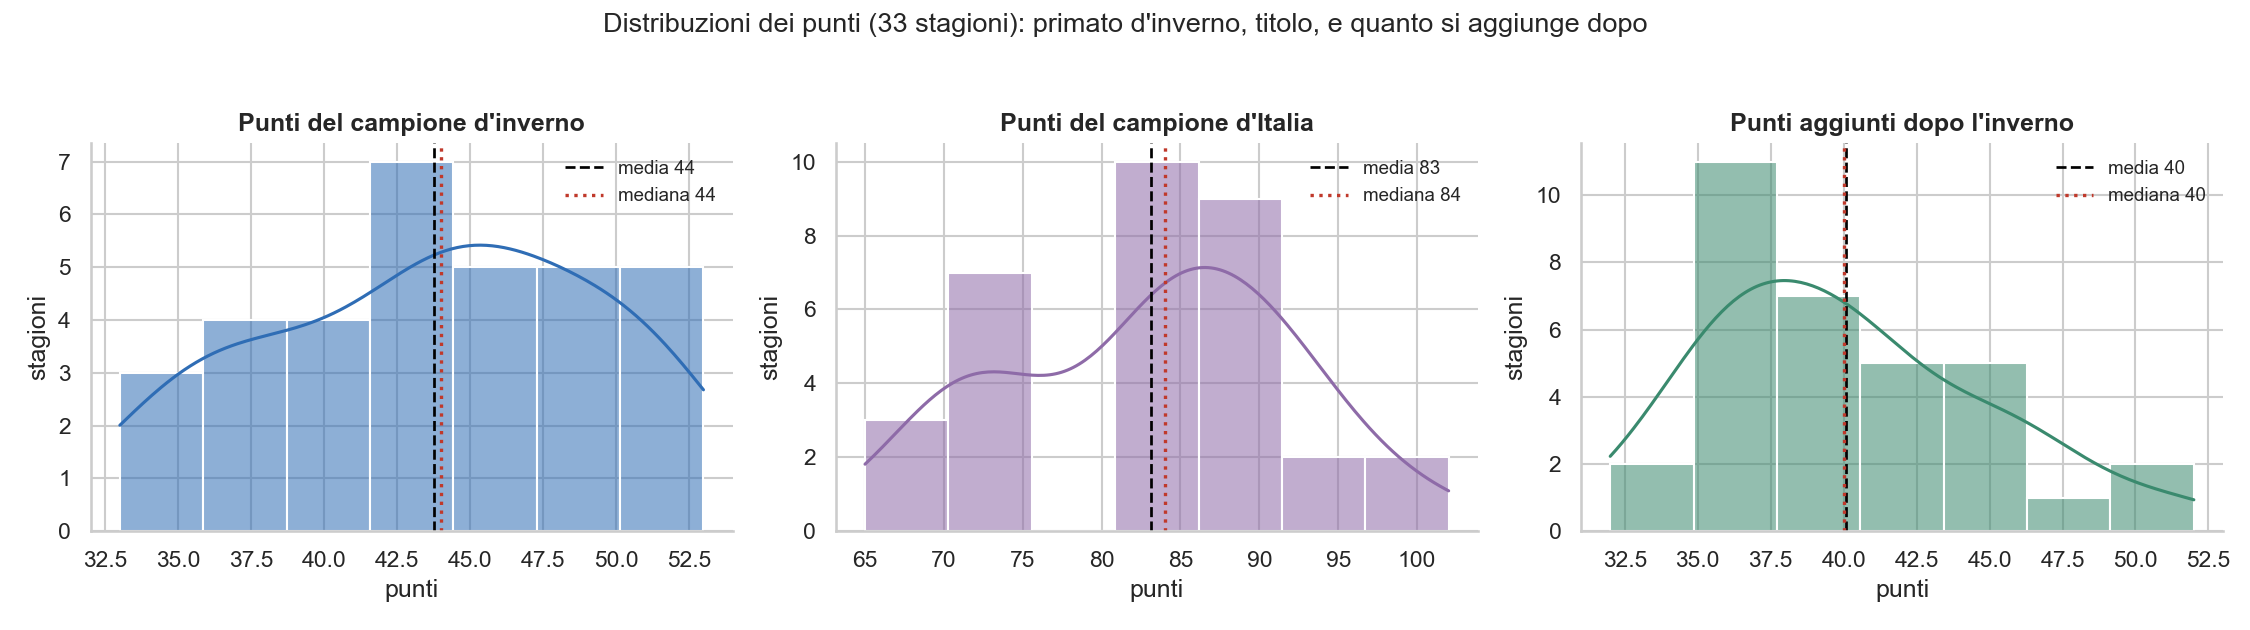
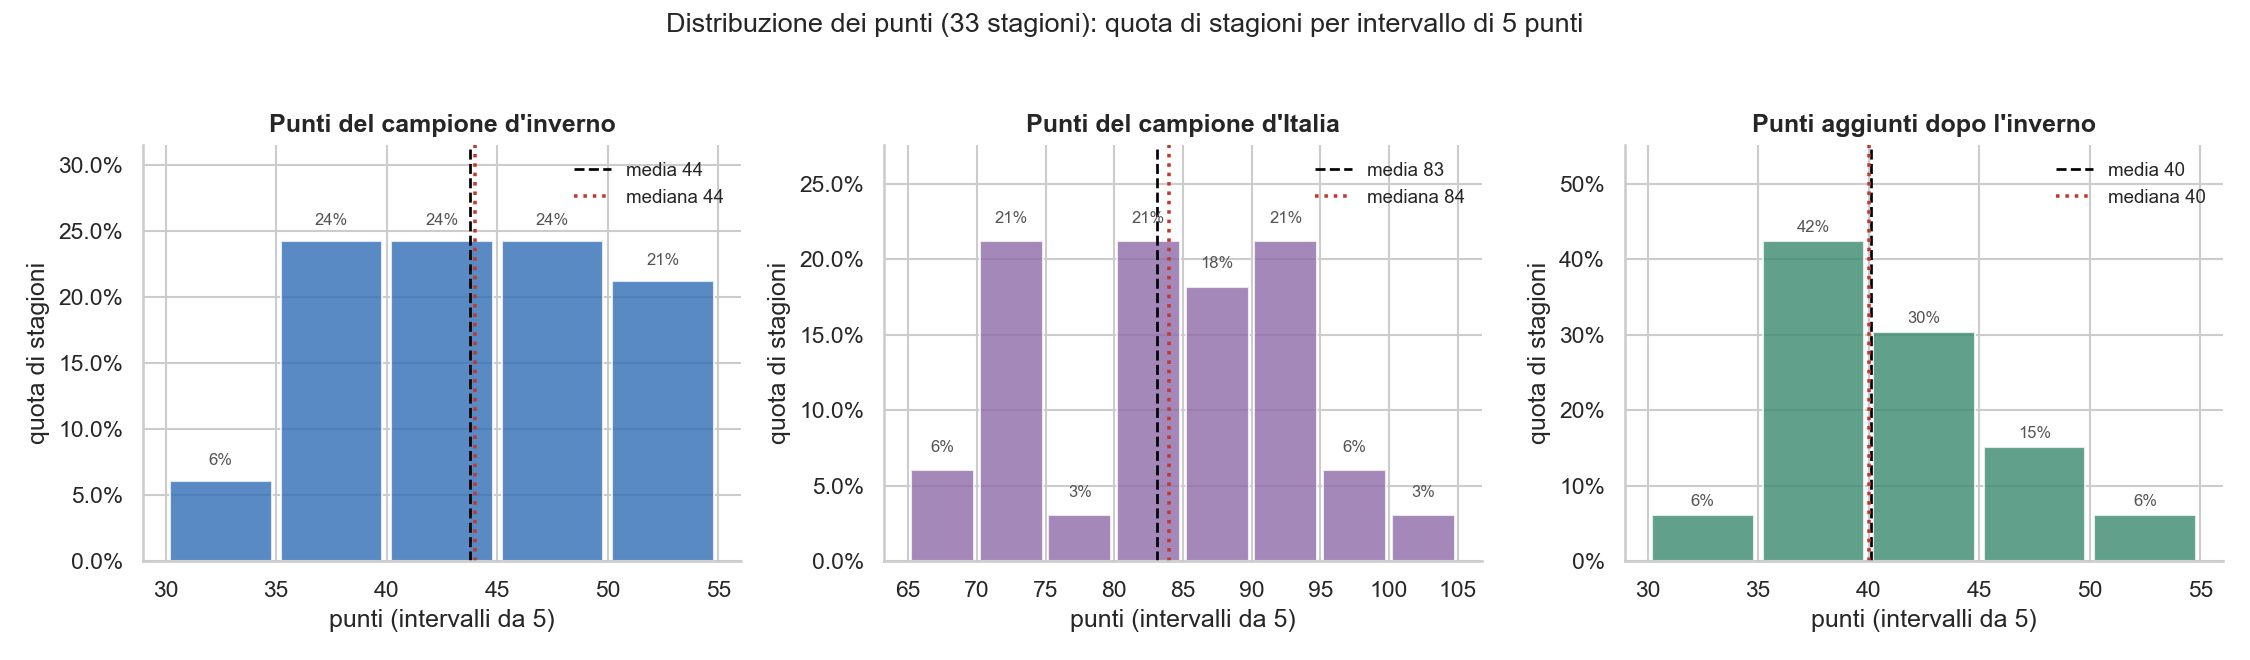
Riscrivi gli articoli: registro asciutto, note, box, istogramma statistico
- prosa piana e frasi semplici, titoli diretti
- citazioni in nota a fine pagina, niente URL o percorsi nel corpo
- box sui calcoli; immagini in stile reference
- istogramma per probabilita su intervalli di 5 punti
- PDF riesportati puliti (niente header/footer)

diff --git a/docs/genera_grafici.py b/docs/genera_grafici.py
@@ -17,6 +17,7 @@ import matplotlib
 
 matplotlib.use("Agg")
 import matplotlib.pyplot as plt
+from matplotlib.ticker import PercentFormatter
 import seaborn as sns
 from statsmodels.stats.proportion import proportion_confint
 
@@ -125,16 +126,28 @@ def g_distribuzioni(d):
     serie = [("Punti del campione d'inverno", d["pti_inverno"], BLU),
              ("Punti del campione d'Italia", d["pti_campione"], VIO),
              ("Punti aggiunti dopo l'inverno", d["delta"], VER)]
-    fig, axes = plt.subplots(1, 3, figsize=(15, 4.2))
+    fig, axes = plt.subplots(1, 3, figsize=(15, 4.4))
     for ax, (titolo, dati, col) in zip(axes, serie):
-        sns.histplot(dati, kde=True, color=col, ax=ax, alpha=0.55)
+        lo = int(np.floor(dati.min() / 5) * 5)
+        hi = int(np.ceil(dati.max() / 5) * 5)
+        bins = list(range(lo, hi + 5, 5))
+        counts, edges = np.histogram(dati, bins=bins)
+        probs = counts / counts.sum()
+        centri = [(a + b) / 2 for a, b in zip(edges[:-1], edges[1:])]
+        ax.bar(centri, probs, width=4.6, color=col, alpha=0.8, edgecolor="white")
+        for p, c in zip(probs, centri):
+            if p > 0:
+                ax.text(c, p + 0.012, f"{p * 100:.0f}%", ha="center", fontsize=8, color="#555")
         ax.axvline(dati.mean(), color="black", ls="--", lw=1.3, label=f"media {dati.mean():.0f}")
-        ax.axvline(dati.median(), color=ROSSO, ls=":", lw=1.6, label=f"mediana {dati.median():.0f}")
+        ax.axvline(dati.median(), color=ROSSO, ls=":", lw=1.7, label=f"mediana {dati.median():.0f}")
         ax.set_title(titolo, fontsize=12, weight="bold")
-        ax.set_xlabel("punti")
-        ax.set_ylabel("stagioni")
+        ax.set_xlabel("punti (intervalli da 5)")
+        ax.set_ylabel("quota di stagioni")
+        ax.set_xticks(bins)
+        ax.yaxis.set_major_formatter(PercentFormatter(1.0))
+        ax.set_ylim(0, probs.max() * 1.3)
         ax.legend(frameon=False, fontsize=9)
-    fig.suptitle("Distribuzioni dei punti (33 stagioni): primato d'inverno, titolo, e quanto si aggiunge dopo",
+    fig.suptitle("Distribuzione dei punti (33 stagioni): quota di stagioni per intervallo di 5 punti",
                  fontsize=13)
     sns.despine(fig)
     fig.tight_layout(rect=(0, 0, 1, 0.95))

diff --git a/article/parte2-il-modello.md b/article/parte2-il-modello.md
@@ -1,97 +1,94 @@
-# Si può leggere gennaio?
+# Cosa conta a metà stagione
 ### Parte 2 — Il modello
 
-*Il campione d'inverno vince il 73% delle volte. Ma cosa distingue chi poi alza la coppa da chi si fa rimontare? Lo abbiamo chiesto a una regressione — con prudenza.*
+*Il campione d'inverno vince il 73% delle volte. Ma cosa distingue chi poi alza la coppa da chi si fa rimontare? L'abbiamo chiesto a una regressione, con prudenza.*
 
-Nella prima parte avevamo lasciato una domanda aperta. Se non tutti i primati di metà stagione valgono uguale — la Juventus che converte quasi sempre, le rimonte che ogni tanto rovesciano il tavolo — allora dev'esserci qualcosa, già a gennaio, che separa il campione d'inverno destinato al titolo da quello che sfumerà. La forza? Il margine? Proviamo a misurarlo.
+Nella prima parte era rimasta una domanda. Non tutti i primati di metà stagione valgono uguale: la Juventus converte quasi sempre, ogni tanto qualcuno viene rimontato. Allora qualcosa, già a gennaio, deve separare il campione d'inverno che vince da quello che no. La forza? Il margine? Proviamo a misurarlo.
 
-## Perché qui non si "prevede"
+## Non è una previsione
 
-Prima un avvertimento, che è anche metodo. Le stagioni sono trentatré: pochissime. Con così pochi casi, allenare un modello a *prevedere* e vantarsi dell'accuratezza è un esercizio fragile — il risultato balla a ogni scelta. La domanda giusta, a questi numeri, non è "quanto prevedo bene", ma "c'è un'associazione, quanto è forte, quanto è incerta?". Si legge il modello, non lo si fa giocare d'azzardo. È una differenza di postura, e cambia tutto.
+Prima un avvertimento, che è anche metodo. Le stagioni sono trentatré: pochissime. Con così pochi casi, allenare un modello a prevedere e vantarsi della sua precisione è fragile, perché il risultato cambia a ogni scelta. La domanda giusta non è "quanto prevedo bene", ma "c'è un legame, quanto è forte, quanto è incerto". Si legge il modello, non lo si fa scommettere.
 
-## L'unica cosa che conta
+## Conta solo il distacco
 
-Messa così, la regressione logistica dà una risposta pulita: l'unica variabile che sposta davvero l'ago è il **distacco sul secondo** a metà stagione. Ogni punto di margine in più aumenta di circa la metà le probabilità di chiudere davanti. Non è un effetto enorme — con n=33 nulla lo è in modo netto — ma è il solo segnale che resta in piedi.
+La regressione dà una risposta pulita: l'unica cosa che sposta davvero le probabilità è il distacco sul secondo a metà stagione. Ogni punto di margine in più aumenta di circa la metà le probabilità di chiudere primo. Non è un effetto enorme, con 33 stagioni niente lo è, ma è il solo segnale che regge.
 
-E si vede a occhio nudo: chi all'andata ha un margine risicato, due punti o meno, vince poi il 62% delle volte; chi ne ha tre-cinque sale al 69%; e chi chiude con almeno sei punti di vantaggio, in trentatré anni, ha sempre vinto — sette su sette. Un primo assaggio di quella «soglia» su cui torneremo.
+> **Come si legge — l'odds ratio.** "Aumenta di circa la metà" vuol dire odds ratio 1,5: ogni punto di margine moltiplica per 1,5 le quote di vincere. Le quote, non la probabilità diretta.
 
-![Conversione per ampiezza del distacco a fine andata](../docs/modello.png)
+E si vede a occhio. Chi all'andata ha un margine corto, due punti o meno, vince poi il 62% delle volte. Chi ne ha da tre a cinque, il 69%. Chi chiude con almeno sei punti, in trentatré anni ha sempre vinto: sette su sette. Un primo assaggio di quella "soglia" di cui parleremo.
 
-## Quello che NON conta (e va detto)
+![Conversione per ampiezza del distacco a fine andata][g-modello]
 
-La parte più istruttiva, però, è ciò che *non* funziona. Abbiamo provato la forza assoluta, i punti per partita: niente, i campioni d'inverno sono tutti forti e la forza varia troppo poco per distinguerli. Abbiamo separato l'attacco dalla difesa, gol fatti e gol subiti: segnale praticamente nullo, la "difesa che vince i campionati" qui non si vede. Abbiamo misurato quanto fosse affollata la corsa alle spalle del primo: ma quella, a conti fatti, è solo il distacco visto da un altro lato.
+## Quello che non conta
+
+La parte più istruttiva è ciò che non funziona. Abbiamo provato la forza assoluta, i punti per partita: niente, i campioni d'inverno sono tutti forti e si somigliano troppo. Abbiamo separato attacco e difesa, gol fatti e gol subiti: segnale quasi nullo. Abbiamo misurato quanto fosse affollata la corsa dietro al primo: ma quello è solo il distacco, visto da un altro lato.
 
 | Cosa abbiamo provato | Aggiunge segnale? |
 |---|---|
-| Distacco sul secondo | Sì — l'unico (p ≈ 0,07) |
+| Distacco sul secondo | Sì, l'unico |
 | Differenza reti | Quasi nulla |
-| Punti/partita (forza assoluta) | No |
-| Attacco e difesa separati | No (≈ zero) |
-| Contendibilità (rivali vicini) | È il distacco, visto da un altro lato |
+| Punti per partita | No |
+| Attacco e difesa separati | No |
+| Rivali vicini | È il distacco, da un altro lato |
 
-Il messaggio converge: conta *di quanto* sei primo, non *quanto* sei forte né *come* giochi. È un risultato negativo, di quelli che raramente finiscono in un titolo di giornale, e proprio per questo vale la pena scriverlo.
+Il messaggio è chiaro: conta di quanto sei primo, non quanto sei forte né come giochi.
 
-![Cosa distingue chi converte: solo il distacco sul secondo si stacca da zero](../docs/regressori.png)
+![Cosa distingue chi converte: solo il distacco sul secondo si stacca da zero][g-regressori]
 
-Messa in un grafico, la cosa è netta. Di tutte le caratteristiche del campione d'inverno — forza, attacco, difesa, differenza reti — solo il distacco sul secondo distingue davvero chi poi vince da chi si fa rimontare: la sua barra è l'unica che non tocca lo zero. Tutto il resto è indistinguibile dal caso (e con appena nove rimontati, le bande d'incertezza sono larghe).
+> **Come si legge — la differenza standardizzata.** Misura quanto chi converte e chi si fa rimontare differiscono su una caratteristica, in deviazioni standard. Zero vuol dire nessuna differenza; più la barra è lontana da zero, più quella caratteristica separa i due gruppi.
 
-Una precisazione, però, prima di seppellire la difesa. Un conto è chiedersi *chi converte* tra i primi d'inverno, un altro *chi diventa campione*. E lì la difesa pesa eccome: in trentatré stagioni il campione d'Italia ha avuto la miglior difesa del torneo nel 73% dei casi, il miglior attacco solo nel 39%. La vecchia idea che «la difesa vince i campionati» nei numeri c'è. Solo che la difesa serve a *costruire* il vantaggio; a spiegare se un vantaggio già costruito regge, no — quello dipende da quanto è grande.
+Nel grafico si vede subito: di tutte le caratteristiche del campione d'inverno, solo il distacco si stacca da zero. Attacco, difesa, forza, differenza reti restano indistinguibili dal caso. E con appena nove squadre rimontate, le bande di incertezza sono larghe.
 
-## L'Inter 2025/26, e una previsione onesta
+Una cosa, però, prima di seppellire la difesa. Un conto è chiedersi chi converte tra i primi d'inverno, un altro chi diventa campione. E lì la difesa pesa: in trentatré stagioni il campione d'Italia ha avuto la miglior difesa nel 73% dei casi, il miglior attacco solo nel 39%[^calc]. "La difesa vince i campionati" nei numeri c'è. Ma la difesa serve a costruire il vantaggio; a dire se un vantaggio già costruito regge, no. Quello dipende da quanto è grande.
 
-Una prova, per gioco e per onestà. Quest'anno il campione d'inverno è stato l'Inter, con tre punti di margine. Abbiamo addestrato il modello su tutte le altre stagioni — tenendo fuori proprio questa — e gli abbiamo chiesto: che probabilità dai all'Inter? Ha risposto circa il 70%. L'Inter ha poi vinto.
+## La prova: l'Inter 2025/26
 
-Modello promosso? Calma. Quel 70% è quasi identico al tasso storico: con un margine modesto, il modello non fa che dire "di solito sì". Non ci ha azzeccato per bravura, ma perché la base di partenza è già alta — e un 70% lascia comunque tre possibilità su dieci che andasse storto. Una stagione sola non promuove né boccia nessuno.
+Una prova, per gioco e per onestà. Quest'anno il campione d'inverno è stato l'Inter, con tre punti di margine. Abbiamo addestrato il modello su tutte le altre stagioni, tenendo fuori questa, e gli abbiamo chiesto: che probabilità dai all'Inter? Ha risposto circa il 70%. L'Inter ha poi vinto.
 
-## Da una domanda nascono domande
+> **Come si legge — la prova "out-of-sample".** Il modello impara senza la stagione da giudicare, poi prova a indovinarla. Così non bara: non ha già visto la risposta.
 
-Eravamo partiti da una provocazione tra colleghi, e siamo finiti — giustamente — con più domande di quante ne avessimo all'inizio. Quelle che restano aperte:
+Modello promosso? Calma. Quel 70% è quasi uguale al tasso storico: con un margine piccolo, il modello dice solo "di solito sì". Non ci ha azzeccato per bravura, ma perché la base di partenza è alta. E un 70% lascia comunque tre possibilità su dieci che vada storto. Una stagione sola non promuove e non boccia nessuno.
 
-- vale solo per la Serie A, o è una legge del calcio? Per scoprirlo servirebbe guardare gli altri campionati, ma senza mescolarli: ognuno è un caso a sé, andrebbero distinti (con variabili di lega o interazioni).
-- esiste una **soglia** oltre la quale il titolo è praticamente certo — un margine, o un monte-punti, dopo il quale non si torna indietro?
-- il vantaggio dell'inverno è cambiato nel tempo, tra ere di una sola dominatrice ed ere più aperte?
-- e se invece di "vince / non vince" guardassimo *di quanto* si vince a fine stagione?
-- la difesa fa il campione (73% dei casi) più dell'attacco (39%): è sempre stato così, in tutte le ere? E con dati più ricchi — tiri, possesso, *expected goals* — quali altri tratti di gioco distinguono un campione?
-- una domanda diversa, lo stesso spirito: le neopromosse dalla Serie B partono forte e si spengono? Una curva di rendimento per blocchi di giornate direbbe se il «fuoco di paglia» esiste davvero, o è solo un'impressione.
+## Le domande aperte
 
-E poi i passi più tecnici, che il piccolo numero di stagioni richiede: stimare la probabilità con un approccio **bayesiano** (una Beta-Binomiale dà la risposta con il suo intervallo di credibilità), intervalli via **bootstrap**, una logistica penalizzata (**Firth**) pensata per i campioni piccoli, un modello **gerarchico** che tratti ogni squadra per quello che è. E, soprattutto, **più dati**: le stagioni storiche pre-1993, che non esistono in un file pronto e andrebbero ricostruite.
+Eravamo partiti da una provocazione tra colleghi, e finiamo con più domande di prima. Quelle che restano:
 
-C'è anche un modo più onesto di leggere il legame. Il campione d'inverno non vince *perché* è campione d'inverno: lo diventa *perché* ha già mostrato, in mezza stagione, le qualità che servono a vincere — continuità, solidità, una rosa profonda. Il primato di gennaio non è una causa, è una **spia**: non una profezia, ma un buon proxy della forza espressa fin lì. Per questo gli allenatori lo sdrammatizzano — «non conta niente, quello che conta è arrivare a maggio in testa», ha tagliato corto Chivu da campione d'inverno in carica — mentre i numeri, loro, un po' contano. Le due cose non si contraddicono: il titolo non garantisce niente, ma chi se lo prende, di solito, è la squadra giusta.
+- vale solo per la Serie A, o per tutto il calcio? Servirebbe guardare gli altri campionati, senza mescolarli: ognuno è un caso a sé.
+- esiste una soglia oltre cui il titolo è quasi certo? Un margine, o un monte-punti, dopo cui non si torna indietro.
+- la difesa fa il campione più dell'attacco (73% contro 39%): è sempre stato così, in tutte le epoche? E con dati più ricchi, come tiri, possesso ed expected goals, cos'altro conta?
+- le neopromosse dalla Serie B partono forte e si spengono? Una curva di rendimento per blocchi di giornate lo direbbe.
+- il pronostico salta per coppe, mercato di gennaio, infortuni: Immobile, da dentro, insiste sul peso del doppio impegno[^imm]. Si possono provare come variabili?
+- e se invece di "vince o non vince" guardassimo di quanto si vince?
 
-Resta il punto di partenza, che il modello non scalfisce ma anzi conferma: il campione d'inverno parte nettamente favorito, e ciò che a gennaio fa la differenza è quanto chiaramente è in testa. Trentatré stagioni sono poche per chiamarla legge. È una tendenza forte — e quel 27% di primi traditi dalla primavera è la parte più bella, la prova che il calcio un margine alla rimonta lo lascia sempre.
+Ci sono poi i passi tecnici, che il piccolo numero di stagioni richiede: una stima bayesiana con il suo intervallo, intervalli da bootstrap, una logistica adatta ai campioni piccoli (Firth), un modello che tratti ogni squadra per sé. E soprattutto più dati: le stagioni prima del 1993, che non esistono già pronte e andrebbero ricostruite.
+
+C'è anche un modo più onesto di leggere il legame. Il campione d'inverno non vince perché è campione d'inverno. Lo diventa perché ha già mostrato, in mezza stagione, le qualità che servono per vincere: continuità, solidità, una rosa profonda. Il primato di gennaio non è una causa, è una spia. Per questo gli allenatori lo ridimensionano ("non conta niente, conta arrivare a maggio in testa", ha tagliato corto Chivu da campione d'inverno in carica[^chivu]), mentre i numeri un po' contano. Le due cose non si escludono: il titolo non garantisce niente, ma chi se lo prende, di solito, è la squadra giusta.
+
+Resta il punto di partenza, che il modello conferma. Il campione d'inverno parte nettamente favorito, e a gennaio fa la differenza quanto è chiaramente in testa. Trentatré stagioni sono poche per chiamarla legge: è una tendenza forte. E quel 27% di primi traditi dalla primavera è la parte più bella, la prova che una rimonta è sempre possibile.
 
 ---
 
 ## Nota metodologica
 
-- **Campione d'inverno**: primo quando ogni squadra ha completato l'andata (`min partite ≥ n−1`). Identità verificata contro le fonti per le ultime 10 stagioni (10 su 10); resta una piccola imprecisione sui punti assoluti del primo (rinvii), non sul distacco.
-- **Test**: proporzione storica con intervallo di Wilson; contingenza su tutte le coppie squadra-stagione con test esatto di Fisher (preferito al chi-quadro per le frequenze attese basse).
-- **Modello**: regressione logistica (statsmodels) letta sui parametri; regressori del campione d'inverno a fine andata. Valutazione Leave-One-Out e prova out-of-sample sull'Inter 2025/26. A n=33 si leggono direzioni e ordini di grandezza, non certezze.
+- **Campione d'inverno**: primo quando ogni squadra ha completato l'andata (partite giocate ≥ n−1). Verificato contro le fonti nelle ultime 10 stagioni. Resta una piccola imprecisione sui punti assoluti del primo, per i rinvii, non sul distacco.
+- **Test**: proporzione storica con intervallo di Wilson; tavola di contingenza su tutte le coppie squadra-stagione con test esatto di Fisher, più adatto del chi-quadro quando le frequenze attese sono basse.
+- **Modello**: regressione logistica letta sui parametri, non sull'accuratezza. Regressori del campione d'inverno a fine andata. Valutazione Leave-One-Out e prova out-of-sample sull'Inter 2025/26. Con 33 stagioni si leggono direzioni e ordini di grandezza, non certezze.
 
-  Dettaglio dei regressori provati:
+Regressori provati:
 
-  | Regressore | pseudo-R² | p-value |
-  |---|---|---|
-  | distacco sul secondo | 0,14 | 0,07 |
-  | + differenza reti | — | 0,71 |
-  | punti/partita (forza assoluta) | 0,02 | 0,40 |
-  | gol fatti + subiti per partita | 0,00 | ≈ 0,9 |
-  | contendibilità (rivali entro 5 punti) | 0,10 | 0,07 (collineare col distacco) |
+| Regressore | pseudo-R² | p-value |
+|---|---|---|
+| distacco sul secondo | 0,14 | 0,07 |
+| + differenza reti | — | 0,71 |
+| punti per partita | 0,02 | 0,40 |
+| gol fatti + subiti per partita | 0,00 | ≈ 0,9 |
+| rivali entro 5 punti | 0,10 | 0,07 (legato al distacco) |
 
-- Codice, tabelle e test nel [notebook del progetto](../analisi/probScudettoSeCampioneInverno.ipynb); i grafici sono in [`docs/`](../docs/).
+I numeri vengono dal notebook del progetto, dove ci sono codice, tabelle e test.
 
----
+[^calc]: Numeri nostri su 33 stagioni (1993/94–2025/26), dati football-data.co.uk; calcolati nel notebook del progetto.
+[^chivu]: [Sportal](https://www.sportal.it/calcio/serie-a/inter-lecce-cristian-chivu-il-titolo-d-inverno-non-conta-eusebio-di-francesco-si-tiene-la-prestazione.html) — Chivu: «il titolo d'inverno non conta».
+[^imm]: [FCInter1908](https://www.fcinter1908.it/news/interviste/immobile-intervista-scudetto-inter-inzaghi/) — Immobile sul peso del doppio impegno e delle tante partite.
 
-## Linkografia
-
-**I nostri numeri** — percentuali, regressioni, intervalli e test sono nel [notebook del progetto](../analisi/probScudettoSeCampioneInverno.ipynb); i grafici in [`docs/`](../docs/). La rassegna completa delle fonti è in [`resources/`](../resources/).
-
-**Le fonti citate** (pubbliche, divulgative e giornalistiche, non peer-reviewed — numeri indicativi):
-
-- [Lega Serie A](https://www.legaseriea.it/serie-a/news/inter-col-lecce-per-diventare-campione-d-inverno) — il campione d'inverno nella storia (63 su 93, 67,7%).
-- [Sky Sport](https://sport.sky.it/calcio/serie-a/serie-a-campioni-inverno-scudetto-precedenti) — campioni d'inverno e scudetto, i precedenti.
-- [Calcio e Finanza](https://www.calcioefinanza.it/2026/01/05/serie-a-campione-dinverno-2026-chi-e/) — cos'è il campione d'inverno (un titolo «puramente giornalistico»).
-- [PokerStars News](https://www.pokerstarsnews.it/calcio/campione-inverno-cosa-significa-statistiche/37019/) — cosa significa e le statistiche (a metà stagione «i valori sono già delineati»).
-- [SportMediaset](https://www.sportmediaset.mediaset.it/calcio/inter/inter-campione-inverno-statistica-scudetto_107743377-202602k.shtml) — la statistica scudetto nell'era recente (~79%).
-- [Sportal](https://www.sportal.it/calcio/serie-a/inter-lecce-cristian-chivu-il-titolo-d-inverno-non-conta-eusebio-di-francesco-si-tiene-la-prestazione.html) — Chivu: «il titolo d'inverno non conta».
-- [FCInter1908](https://www.fcinter1908.it/news/interviste/immobile-intervista-scudetto-inter-inzaghi/) — Immobile sul peso del doppio impegno e delle tante partite.
+[g-modello]: ../docs/modello.png
+[g-regressori]: ../docs/regressori.png

diff --git a/article/parte1-la-domanda.md b/article/parte1-la-domanda.md
@@ -1,59 +1,63 @@
-# Quello che l'inverno sa dello scudetto
+# Campione d'inverno, poi campione d'Italia?
 ### Parte 1 — La domanda
 
-*Da trent'anni il campione d'inverno della Serie A diventa campione d'Italia quasi tre volte su quattro. È un presagio, o solo il riflesso di un vantaggio difficile da buttare via?*
+*In 33 stagioni di Serie A il campione d'inverno ha poi vinto lo scudetto quasi tre volte su quattro. Quanto conta davvero quel primato di metà stagione?*
 
-C'è un titolo, in Serie A, che non esiste. Non si alza al cielo, non finisce in bacheca, non vale un punto. Eppure ogni gennaio viene assegnato con una certa solennità: *campione d'inverno*, la squadra prima in classifica alla fine del girone di andata. È una di quelle etichette che il calcio si porta dietro per abitudine e scaramanzia, sospesa tra la statistica e il presagio. La domanda vera, sotto, è sempre la stessa: conta qualcosa, o è solo un modo per riempire le pagine di metà stagione?
+In Serie A c'è un titolo che non esiste: il campione d'inverno, la squadra prima in classifica a fine girone di andata. Non si alza al cielo e non vale un punto, ma ogni gennaio i giornali lo assegnano lo stesso. La domanda, sotto, è semplice: conta qualcosa?
 
-La cosa è nata, come spesso capita, da una provocazione tra colleghi. Uno con un po' di strada da data scientist alle spalle la lancia a uno più giovane, che quella strada la sta appena imboccando: «Hai voglia? Qual è la probabilità che una squadra di Serie A vinca lo scudetto, dato che è campione d'inverno?». Sembra una domanda da bar. È invece l'inizio perfetto, perché — come succede coi dati — da una domanda ne nascono altre.
+È nata da una provocazione tra colleghi. Uno con un po' di strada da data scientist alle spalle la gira a uno più giovane: «Qual è la probabilità che una squadra vinca lo scudetto, sapendo che è campione d'inverno?». Sembra una domanda da bar, ed è invece un buon punto di partenza: da lì ne nascono altre.
 
-L'ipotesi da verificare è quella popolare: *campione d'inverno uguale campione d'Italia*. Vediamo se i numeri le danno ragione.
+L'ipotesi da verificare è quella popolare: campione d'inverno uguale campione d'Italia. Vediamo se i numeri le danno ragione.
 
-## La risposta, prima di tutto
+> **Come lo definiamo — il campione d'inverno.** È il primo in classifica quando tutte le squadre hanno completato il girone di andata (in pratica: partite giocate ≥ n−1). Coincide con le fonti ufficiali nelle ultime 10 stagioni.
 
-Per rispondere basta guardare indietro. Dal 1993/94 a oggi, trentatré stagioni, il campione d'inverno ha poi alzato lo scudetto **ventiquattro volte su trentatré**: il **73%** (intervallo di Wilson al 95%: 56–85% — con appena trentatré stagioni anche questo numero ha il suo margine d'errore). Quasi tre volte su quattro. Già così sembra molto, ma un numero da solo non dice quanto pesa: serve un termine di paragone.
+## La risposta
 
-Eccolo. In una stagione qualsiasi, una squadra che *non* è campione d'inverno ha una probabilità di vincere lo scudetto dell'1,5%. Una che lo è, del 73%. Essere primi al giro di boa moltiplica le possibilità di titolo per oltre cento volte. Non è un presagio vago: è uno dei divari più netti del calcio italiano.
+Dal 1993/94 a oggi, 33 stagioni: il campione d'inverno ha poi vinto lo scudetto 24 volte, il 73%[^calc] (con così pochi anni l'intervallo di confidenza va dal 56 all'85%). Da solo il numero dice poco, serve un confronto. Chi a metà stagione non è primo vince lo scudetto nell'1,5% dei casi; chi è primo, nel 73%. Essere in testa al giro di boa cambia tutto.
 
-![Campione d'inverno e scudetto](../docs/risultati.png)
+> **Come si legge — l'intervallo.** Con pochi dati una percentuale è incerta. L'intervallo di Wilson dà la forbice entro cui sta il valore vero, con il 95% di confidenza: più stagioni, forbice più stretta. Qui è ampia (56–85%) proprio perché 33 stagioni sono poche.
 
-## La media che nasconde tutto
+![Campione d'inverno e scudetto][g-risultati]
 
-Il 73%, però, è una media, e le medie sono bugiarde gentili. Spacchettata per squadra, la conversione racconta storie diverse. La Juventus, campione d'inverno tredici volte, ha poi vinto in dodici: il 92%, una quasi-certezza. L'Inter converte cinque-sei volte su sette, il Milan tre su cinque, il Napoli la metà delle volte, la Roma una su tre. La Fiorentina, l'unica volta che ha guidato a metà strada, è finita a mani vuote.
+## Dietro la media
 
-E poi ci sono le rimonte, che sono il sale della faccenda: nove volte in trentatré anni lo scudetto è andato a chi a metà stagione inseguiva. Quattro di queste portano la firma della Juventus, tre del Milan, una a testa di Inter e Lazio. E visto dal lato di chi guidava: a farsi rimontare, almeno una volta, sono finite **tutte e sei** le squadre arrivate prime a metà strada — più spesso Roma, Milan e Napoli, due volte ciascuna. Il vantaggio dell'inverno è reale, ma non è un salvacondotto.
+Il 73% è una media, e spacchettata per squadra racconta storie diverse. La Juventus è stata campione d'inverno tredici volte e ha poi vinto dodici scudetti: il 92%. L'Inter converte sei volte su sette, il Milan tre su cinque, il Napoli una su due, la Roma una su tre. La Fiorentina, l'unica volta che ha guidato a metà strada, ha chiuso a mani vuote.
 
-## E l'epoca conta
+Poi ci sono le rimonte: nove volte in 33 anni lo scudetto è andato a chi a metà stagione inseguiva. Quattro portano la firma della Juventus, tre del Milan, una a testa di Inter e Lazio. E dal lato opposto, a farsi rimontare almeno una volta sono finite tutte e sei le squadre arrivate prime all'inverno, con Roma, Milan e Napoli due volte ciascuna. Il vantaggio dell'inverno è reale, ma non basta da solo.
 
-C'è un taglio che cambia la storia: il numero di squadre. Nell'era a diciotto squadre (fino al 2003/04) il campione d'inverno ha poi vinto appena il 55% delle volte — sei su undici, poco più di un testa o croce. Nell'era a venti squadre (dal 2004/05) si sale all'82%, diciotto su ventidue: quattro volte su cinque. Con così pochi casi, però, gli intervalli sono larghissimi e in parte si sovrappongono (Wilson 95%: 28–79% la prima era, 61–93% la seconda): la differenza è netta come tendenza, fragile come numero.
+## L'epoca conta
 
-![Conversione per era](../docs/era.png)
+Un taglio cambia parecchio la storia: il numero di squadre. Nell'era a diciotto squadre, fino al 2003/04, il campione d'inverno ha poi vinto solo il 55% delle volte, sei su undici. Nell'era a venti, dal 2004/05, si sale all'82%, diciotto su ventidue. Con così pochi casi gli intervalli sono larghi e in parte si sovrappongono (dal 28 al 79% la prima era, dal 61 al 93% la seconda): la differenza è chiara come tendenza, incerta come numero.
 
-La media storica della [Lega Serie A](https://www.legaseriea.it/serie-a/news/inter-col-lecce-per-diventare-campione-d-inverno), su tutti i 93 campionati a girone unico, è del 67,7%: il nostro 73% recente sta sopra, e la spaccatura tra le due ere spiega perché. Anche le testate, guardando solo gli ultimi anni, parlano di circa il [79%](https://www.sportmediaset.mediaset.it/calcio/inter/inter-campione-inverno-statistica-scudetto_107743377-202602k.shtml), in linea col nostro 82%. Il "campione d'inverno" non è una costante del calcio italiano — è un indicatore che nella Serie A moderna pesa molto di più. Quale finestra di dati si guarda, insomma, cambia la risposta.
+![Conversione per era][g-era]
 
-Lo si vede bene seguendo la stima mentre si accumulano le stagioni. All'inizio degli anni Novanta il campione d'inverno vinceva sempre, e la percentuale partiva incollata al 100% — ma su pochissimi casi, con una banda d'incertezza che copriva mezza tabella. Poi la lunga era a diciotto squadre l'ha trascinata giù, fino al 55% dei primi anni Duemila; e solo con l'era moderna la curva è risalita e si è assestata intorno al 73%, mentre la banda si stringeva. È questo il senso del "taglio" degli anni: a seconda di quando si comincia a contare, la stessa domanda dà risposte diverse — e un'unica media le nasconde tutte.
+Su tutta la storia della Serie A, 93 campionati a girone unico, la media è del 67,7%[^lega]; le testate, guardando solo gli ultimi anni, parlano di circa il 79%[^sm], in linea col nostro 82%. Il primato d'inverno non è una costante: pesa molto di più nella Serie A moderna. A seconda di quali anni si guardano, la risposta cambia.
 
-![Come si assesta la stima, stagione dopo stagione, con la banda d'incertezza di Wilson](../docs/cumulata.png)
+Si vede bene seguendo la stima mentre si accumulano le stagioni. All'inizio degli anni Novanta il campione d'inverno vinceva sempre, e la percentuale partiva dal 100%, ma su pochissimi casi e con un'incertezza enorme. La lunga era a diciotto squadre l'ha fatta scendere fino al 55% dei primi anni Duemila; con l'era moderna è risalita e si è assestata intorno al 73%, mentre la banda d'incertezza si stringeva.
 
-## Quanto è forte un campione d'inverno
+![Come si assesta la stima, stagione dopo stagione, con la banda d'incertezza di Wilson][g-cumulata]
 
-Un dettaglio che vale la pena guardare. Un campione d'inverno chiude l'andata con 44 punti: e qui media e mediana coincidono (43,8 e 44), segno di una distribuzione senza code strane — i primati d'inverno si somigliano tutti. A fine stagione il campione d'Italia arriva in media a 83 punti, mediana 84: di nuovo due numeri quasi gemelli. Per dare un metro umano a quella cifra, Massimiliano Allegri — che di conti se ne intende — in conferenza fissa di solito la quota-scudetto un filo più in alto, intorno agli 86-88 punti ([Corriere dello Sport](https://www.corrieredellosport.it/news/calcio/serie-a/milan/2026/01/07-145696785/il_calcolo_preciso_di_allegri_su_scudetto_e_champions_ecco_quanti_punti_servono)): perché a vincere serve di norma qualcosa in più della media, e perché nell'era a venti squadre i totali si sono alzati.
+## Quanti punti servono
 
-C'è poi un terzo numero, che racconta la seconda metà di stagione: dall'inverno al traguardo il futuro campione aggiunge in media una quarantina di punti (mediana 40), più o meno quanti ne aveva al giro di boa. Il campionato, in fondo, si vince due volte — una prima dell'inverno e una dopo. E se a metà strada il primo viaggia a 2,34 punti a partita, contro i 2,26 con cui in media si solleva il trofeo, è perché la testa all'inverno è il meglio del primo tempo; la maratona, poi, è un'altra storia, e qualcuno rallenta.
+Un campione d'inverno chiude l'andata con 44 punti, e qui media e mediana coincidono (43,8 e 44): i primati d'inverno si somigliano tutti. A fine stagione il campione d'Italia arriva in media a 83 punti, mediana 84. Allegri, in conferenza, fissa di solito la quota-scudetto un po' più in alto, sugli 86-88 punti[^cds]: per vincere serve qualcosa in più della media, e nell'era a venti squadre i totali si sono alzati.
 
-![Distribuzioni dei punti: campione d'inverno, campione d'Italia e quanto si aggiunge dopo l'inverno — media e mediana a confronto](../docs/distribuzioni.png)
+C'è un terzo numero, che racconta il girone di ritorno: dall'inverno al traguardo il futuro campione aggiunge in media una quarantina di punti, più o meno quanti ne aveva al giro di boa. Il campionato si vince due volte, prima e dopo l'inverno. A metà strada il primo viaggia a 2,34 punti a partita, contro i 2,26 con cui in media si chiude da campioni: la testa all'inverno è il meglio del primo tempo, poi qualcuno rallenta.
 
-Gli indici di dispersione (il dettaglio numerico in appendice) confermano l'impressione: distribuzioni quasi simmetriche — asimmetria vicina a zero, come dicono media e mediana gemelle — e poco disperse, con un coefficiente di variazione attorno al 12%. Ma *piatte*: la curtosi negativa segnala che non c'è un valore "tipico", i punti si spalmano su una fascia ampia. L'unica eccezione è il delta del secondo tempo, leggermente sbilanciato a destra — ogni tanto un campione, dopo l'inverno, mette il turbo.
+![Quota di stagioni per intervallo di 5 punti: campione d'inverno, campione d'Italia, e punti aggiunti dopo l'inverno][g-distribuzioni]
+
+> **Come si legge — l'istogramma.** Ogni barra è la quota di stagioni in cui il campione ha chiuso in quell'intervallo di 5 punti. Cinque punti perché con 33 stagioni intervalli più stretti avrebbero uno o zero casi ciascuno: troppo rumore.
+
+Gli indici di dispersione (in appendice) confermano l'impressione: distribuzioni quasi simmetriche e poco disperse, con un coefficiente di variazione attorno al 12%. Sono però piatte: la curtosi negativa dice che non c'è un valore tipico, i punti si spalmano su una fascia ampia. Fa eccezione il delta del ritorno, un po' sbilanciato verso l'alto: ogni tanto un campione, dopo l'inverno, accelera.
 
 ## La domanda che resta
 
-Torniamo all'ipotesi di partenza — *campione d'inverno uguale campione d'Italia*. I dati le danno ragione, ma a modo loro: vera come tendenza (quasi tre volte su quattro, quattro su cinque nell'era recente), falsa come uguaglianza secca. La Juventus converte nel 92% dei casi, la Roma in una su tre; e nove volte, in trentatré anni, qualcuno ha ribaltato il pronostico. Non tutti i primati di metà stagione, evidentemente, valgono uguale.
+Torniamo all'ipotesi di partenza, campione d'inverno uguale campione d'Italia. I dati le danno ragione a metà: come tendenza è forte, quasi tre volte su quattro e quattro su cinque negli ultimi vent'anni; come uguaglianza no. La Juventus converte nel 92% dei casi, la Roma in una su tre, e nove volte in 33 anni il pronostico è saltato. Non tutti i primati di metà stagione valgono uguale.
 
-Allora la domanda si sposta. C'è qualcosa, già a gennaio, che distingue il campione d'inverno destinato a vincere da quello che verrà raggiunto? La forza con cui domina? L'ampiezza del vantaggio? Il modo in cui ci è arrivato? Per rispondere non basta più contare: serve un modello. Ed è la storia della seconda parte.
+Allora la domanda si sposta: cosa distingue, già a gennaio, il campione d'inverno che vince da quello che verrà raggiunto? La forza? L'ampiezza del vantaggio? Il modo in cui ci è arrivato? Per rispondere non basta contare, serve un modello. È la seconda parte.
 
 ---
 
-*Dati: football-data.co.uk (Serie A, 1993/94–2025/26). Tutti i numeri calcolati qui — percentuali, intervalli, distribuzioni — vengono dal [notebook del progetto](../analisi/probScudettoSeCampioneInverno.ipynb), dove ci sono codice e test.*
+*Dati: football-data.co.uk (Serie A, 1993/94–2025/26).*
 
 ## Appendice — gli indici di dispersione
 
@@ -65,13 +69,12 @@ Allora la domanda si sposta. C'è qualcosa, già a gennaio, che distingue il cam
 
 Curtosi in eccesso (0 = normale). Con 33 stagioni, asimmetria e curtosi vanno prese con le pinze.
 
-## Linkografia
+[^calc]: Numeri nostri su 33 stagioni (1993/94–2025/26), dati football-data.co.uk: percentuali, intervalli e distribuzioni vengono dal notebook del progetto, dove ci sono codice e test.
+[^lega]: [Lega Serie A](https://www.legaseriea.it/serie-a/news/inter-col-lecce-per-diventare-campione-d-inverno) — il campione d'inverno nella storia (63 su 93, 67,7%).
+[^sm]: [SportMediaset](https://www.sportmediaset.mediaset.it/calcio/inter/inter-campione-inverno-statistica-scudetto_107743377-202602k.shtml) — la statistica scudetto nell'era recente (~79%).
+[^cds]: [Corriere dello Sport](https://www.corrieredellosport.it/news/calcio/serie-a/milan/2026/01/07-145696785/il_calcolo_preciso_di_allegri_su_scudetto_e_champions_ecco_quanti_punti_servono) — Allegri sulla quota-punti da scudetto (86-88).
 
-**I nostri numeri** — percentuali, intervalli di Wilson, distribuzioni e grafici sono calcolati nel [notebook del progetto](../analisi/probScudettoSeCampioneInverno.ipynb). La rassegna completa delle fonti è in [`resources/`](../resources/).
-
-**Le fonti citate:**
-
-- [Lega Serie A](https://www.legaseriea.it/serie-a/news/inter-col-lecce-per-diventare-campione-d-inverno) — il campione d'inverno nella storia (63 su 93, 67,7%).
-- [SportMediaset](https://www.sportmediaset.mediaset.it/calcio/inter/inter-campione-inverno-statistica-scudetto_107743377-202602k.shtml) — la statistica scudetto nell'era recente (~79%).
-- [Corriere dello Sport](https://www.corrieredellosport.it/news/calcio/serie-a/milan/2026/01/07-145696785/il_calcolo_preciso_di_allegri_su_scudetto_e_champions_ecco_quanti_punti_servono) — Allegri sulla quota-punti da scudetto (86-88).
-- [Sky Sport](https://sport.sky.it/calcio/serie-a/serie-a-campioni-inverno-scudetto-precedenti) — campioni d'inverno e scudetto, i precedenti.
+[g-risultati]: ../docs/risultati.png
+[g-era]: ../docs/era.png
+[g-cumulata]: ../docs/cumulata.png
+[g-distribuzioni]: ../docs/distribuzioni.png